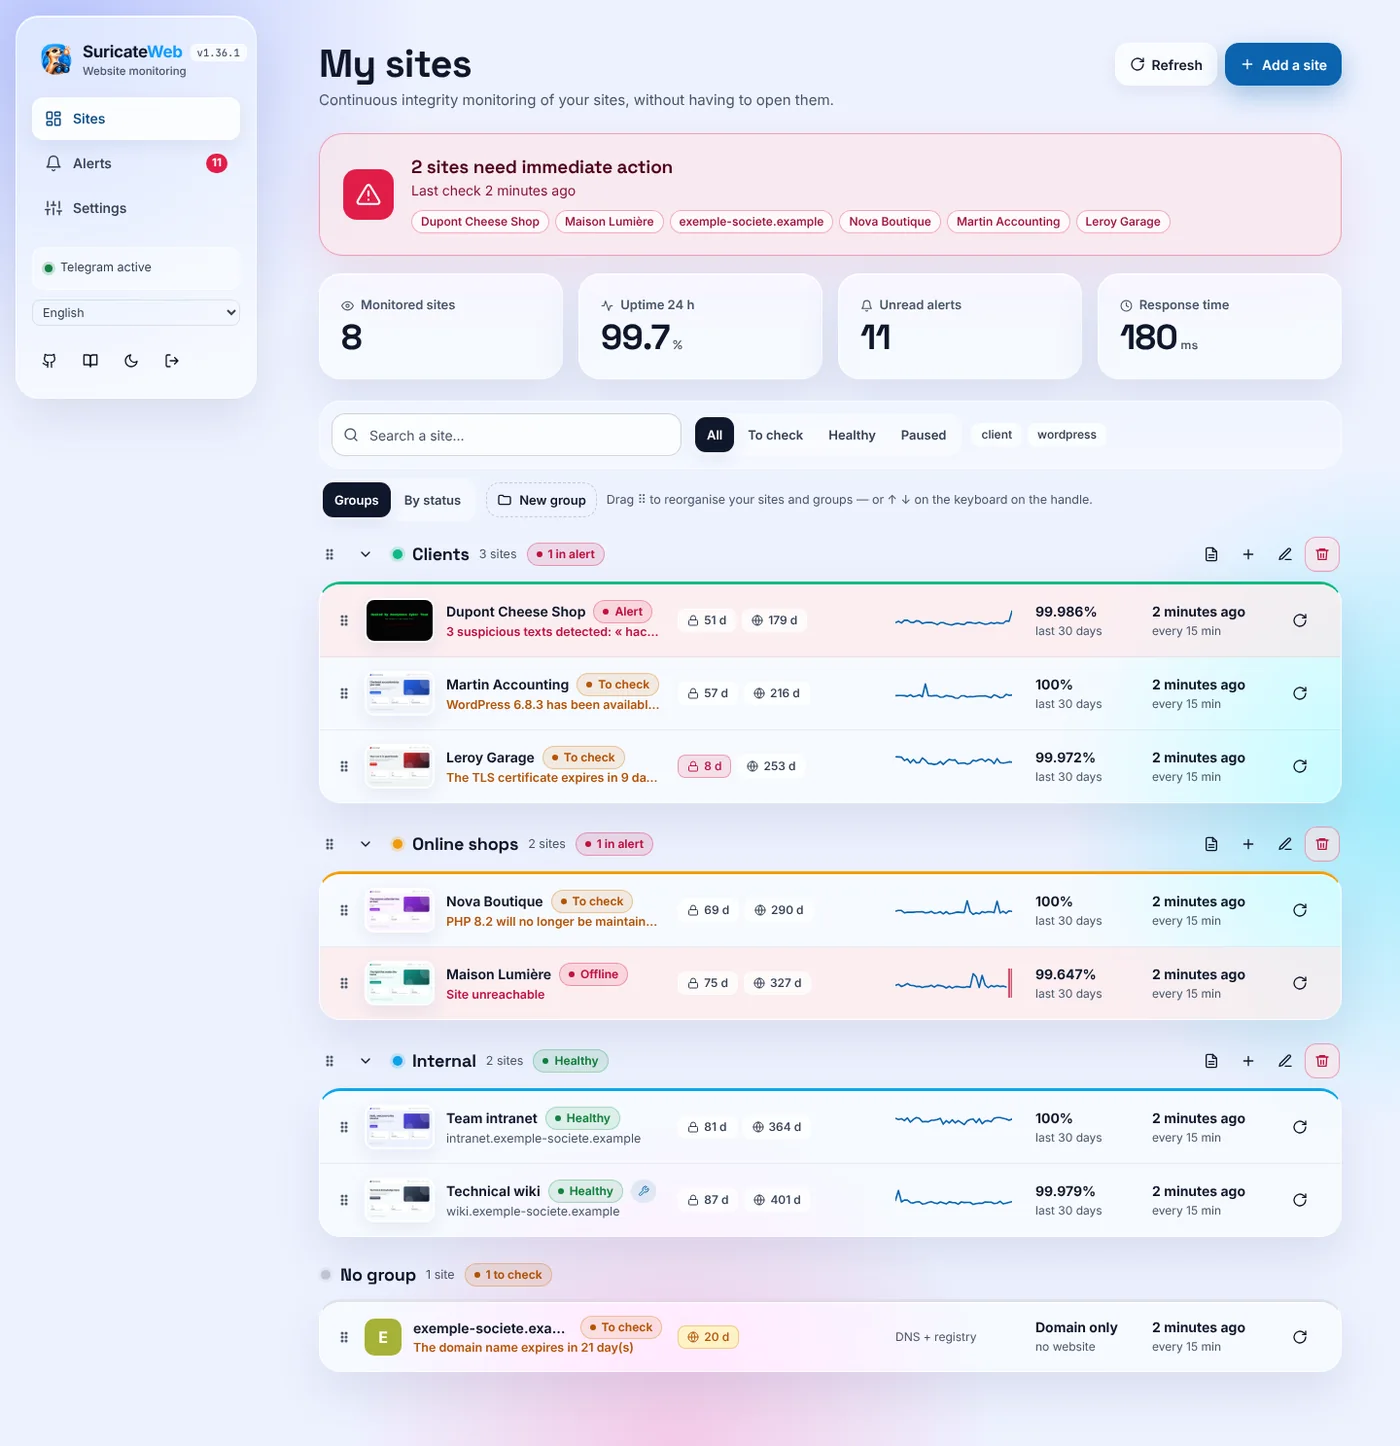
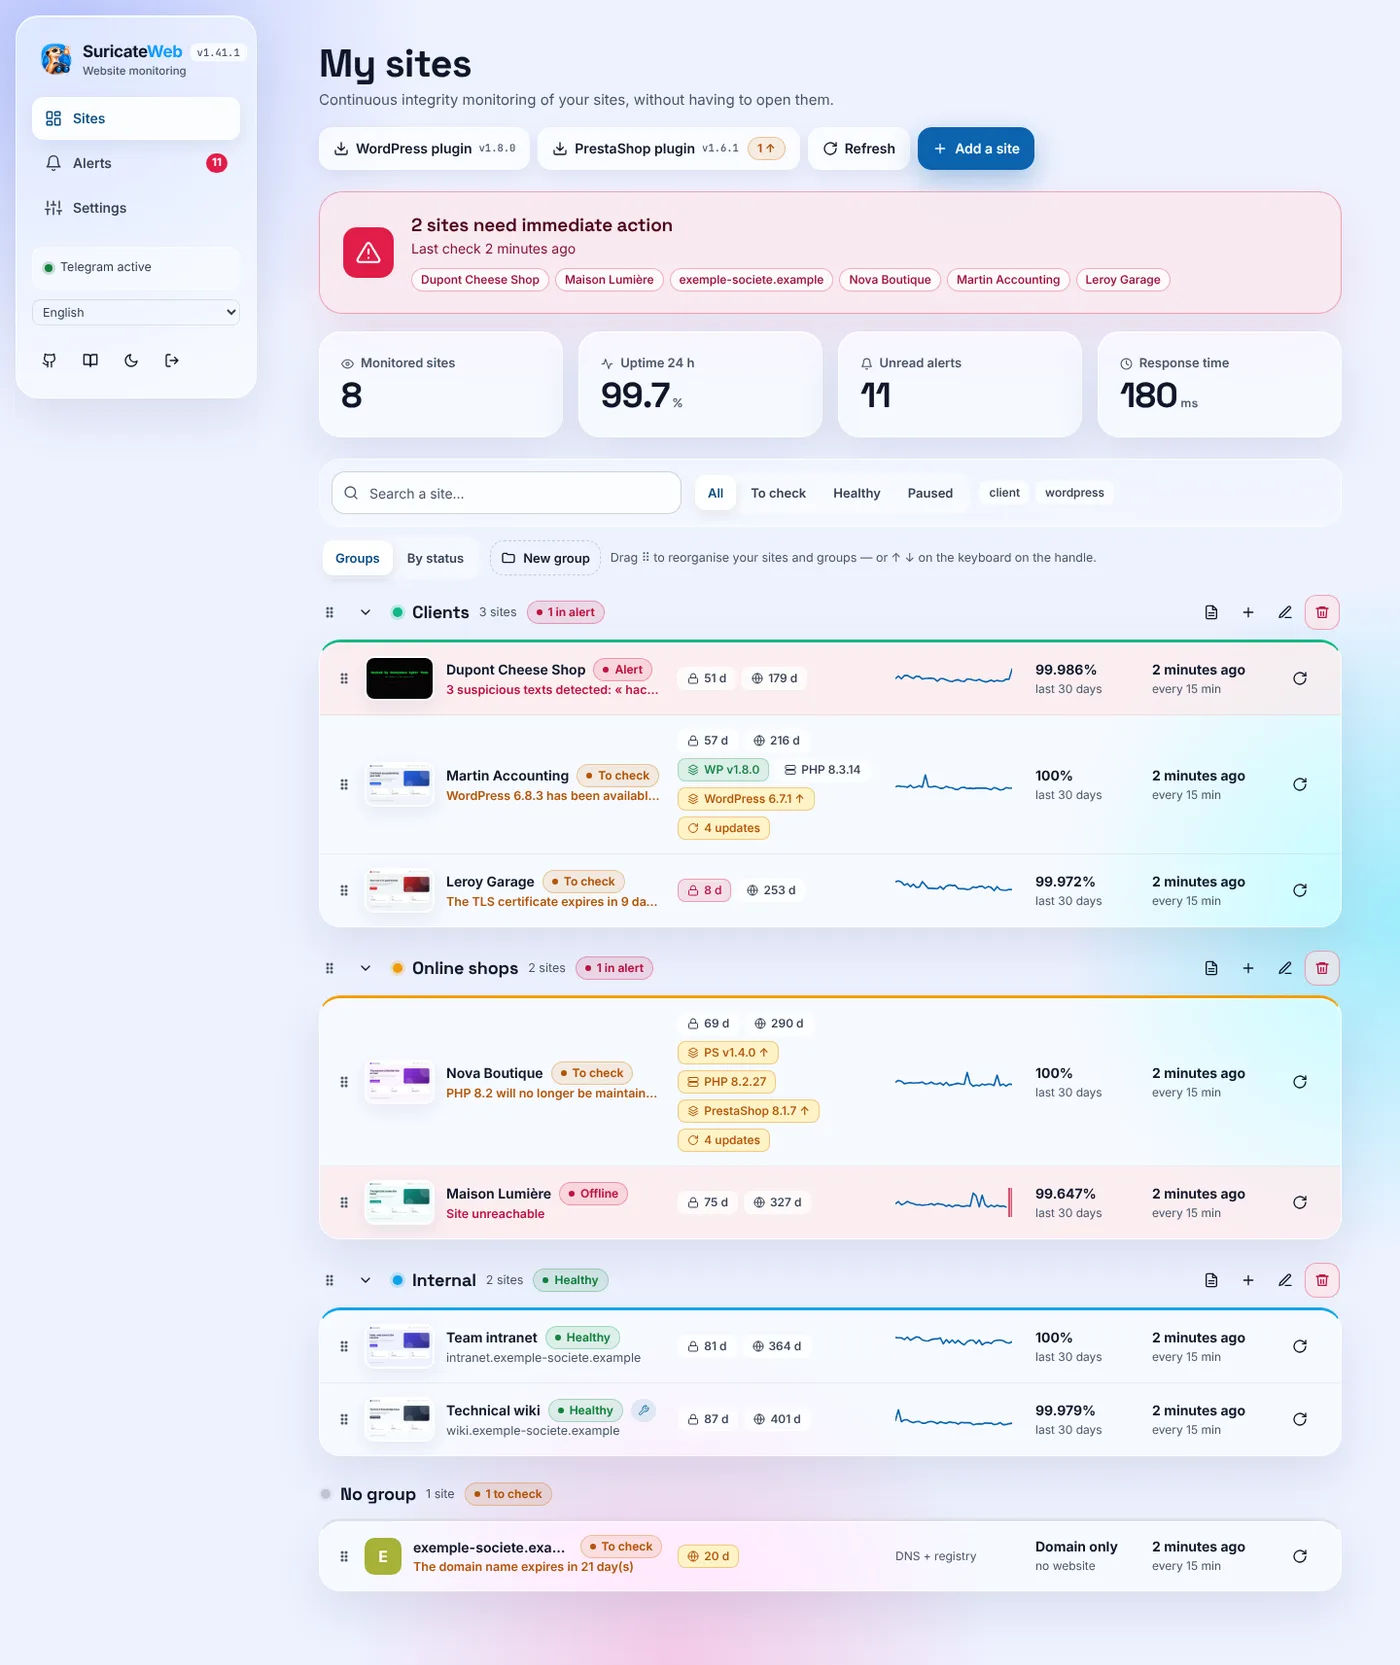
Documentation : liste des sites (versions PHP et CMS, mises à jour en attente, téléchargement des plugins), durcissement en rafale, TRUST_PROXY, capture du tableau de bord (0.2.0)
Claude-Session: https://claude.ai/code/session_01JAuNUVuXj7scNMAsA2dND8

diff --git a/src/content/docs/cms/install.md b/src/content/docs/cms/install.md
@@ -10,7 +10,7 @@ Un petit plugin, installé sur votre site, permet à SuricateWeb de lire ce qu'u
 ## Installation
 
 1. Dans SuricateWeb, ouvrez la fiche du site (**Modifier**), section **WordPress / PrestaShop** : choisissez le CMS. Un **jeton** est généré.
-2. Téléchargez le plugin depuis cette même section (WordPress : une archive `.zip` ; PrestaShop : un module `.zip`).
+2. Téléchargez le plugin depuis cette même section (WordPress : une archive `.zip` ; PrestaShop : un module `.zip`). Les boutons **Plugin WordPress** et **Plugin PrestaShop**, en haut de la liste des sites, le proposent aussi, avec la **version** livrée.
 3. Installez-le comme n'importe quelle extension, puis **activez-le**.
 4. Collez le jeton dans les réglages du plugin :
    - **WordPress** : *Outils › SuricateWeb › Réglages*
@@ -24,6 +24,24 @@ SuricateWeb relève le plugin **toutes les 12 heures** par défaut (réglable de
 ## Mises à jour surveillées
 
 L'onglet **Mises à jour** montre le noyau, les extensions (ou modules) et les thèmes, avec la **version installée** et la **version disponible**. Une alerte part quand une mise à jour tarde : **7 jours** par défaut (réglable), **critique** pour le noyau au bout de 30 jours. La **fin de support de PHP** est aussi signalée.
+
+## Dans la liste des sites
+
+Pour chaque site relié au plugin, la liste affiche ce que le dernier relevé a lu, sans ouvrir la fiche :
+
+| Pastille | Ce qu'elle dit |
+|---|---|
+| **WP v1.8.0** / **PS v1.6.1** | la version du **plugin** installé sur le site. **Verte** : à jour. **Orange** avec ↑ : une version plus récente est livrée. **Rouge** « non joint » : le dernier relevé a échoué. **Grise** « en attente » : aucun relevé pour le moment |
+| **PHP 8.3.14** | la version de PHP du site. **Orange** quand la fin du support de sécurité de cette branche approche (moins de 90 jours), **rouge** quand elle est terminée |
+| **WordPress 6.7.1** / **PrestaShop 8.1.7** | la version du CMS, **orange** avec ↑ quand une version plus récente existe |
+| **4 mises à jour** | le nombre de mises à jour en attente : le CMS, plus chaque extension (ou module) et chaque thème qui en annonce une. C'est le même compte que dans le rapport mensuel. Le détail apparaît au survol, la liste complète dans l'onglet **Mises à jour** |
+
+- Rien ne s'affiche pour un site sans CMS, en mode « domaine seul », ou tant qu'aucun relevé n'a réussi. Si un relevé échoue ensuite, la **dernière valeur connue** reste affichée, et la pastille du plugin passe au rouge.
+- Sur un écran étroit, cette colonne est masquée : il reste une icône du lien avec le CMS.
+
+### Télécharger ou mettre à jour le plugin
+
+En haut de la liste, **Plugin WordPress** et **Plugin PrestaShop** téléchargent l'archive actuelle, avec sa version. Un repère orange, par exemple **1 ↑**, indique **combien de sites** ont un plugin plus ancien : c'est le moment de remplacer le plugin sur ces sites. Les boutons n'apparaissent que si votre accès permet de télécharger les plugins : un invité en lecture seule ne les voit pas.
 
 ## Ce qui circule
 

diff --git a/src/content/docs/en/cms/install.md b/src/content/docs/en/cms/install.md
@@ -10,7 +10,7 @@ A small plugin, installed on your site, lets SuricateWeb read what an outside ch
 ## Installation
 
 1. In SuricateWeb, open the site (**Edit**), **WordPress / PrestaShop** section: choose the CMS. A **token** is generated.
-2. Download the plugin from the same section (WordPress: a `.zip` archive; PrestaShop: a module `.zip`).
+2. Download the plugin from the same section (WordPress: a `.zip` archive; PrestaShop: a module `.zip`). The **WordPress plugin** and **PrestaShop plugin** buttons at the top of the sites list offer it too, with the shipped **version**.
 3. Install it like any extension, then **activate** it.
 4. Paste the token into the plugin's settings:
    - **WordPress**: *Tools › SuricateWeb › Settings*
@@ -24,6 +24,24 @@ SuricateWeb reads the plugin **every 12 hours** by default (adjustable from 1 ho
 ## Monitored updates
 
 The **Updates** tab shows the core, the plugins (or modules) and the themes, with the **installed version** and the **available version**. An alert goes out when an update is late: **7 days** by default (adjustable), **critical** for the core after 30 days. The **end of PHP support** is also reported.
+
+## In the sites list
+
+For each site linked to the plugin, the list shows what the last reading found, without opening the site:
+
+| Badge | What it says |
+|---|---|
+| **WP v1.8.0** / **PS v1.6.1** | the **plugin** version installed on the site. **Green**: up to date. **Orange** with ↑: a newer version is shipped. **Red** “unreachable”: the last reading failed. **Grey** “pending”: no reading yet |
+| **PHP 8.3.14** | the site's PHP version. **Orange** when security support for that branch is about to end (within 90 days), **red** once it has ended |
+| **WordPress 6.7.1** / **PrestaShop 8.1.7** | the CMS version, **orange** with ↑ when a newer version exists |
+| **4 updates** | the number of pending updates: the CMS, plus each plugin (or module) and each theme that announces one. It is the same count as in the monthly report. The detail shows on hover, the full list in the **Updates** tab |
+
+- Nothing is shown for a site without a CMS, in “domain only” mode, or until a reading has succeeded. If a later reading fails, the **last known value** stays displayed, and the plugin badge turns red.
+- On a narrow screen this column is hidden: an icon for the CMS link remains.
+
+### Download or update the plugin
+
+At the top of the list, **WordPress plugin** and **PrestaShop plugin** download the current archive, with its version. An orange marker, for example **1 ↑**, shows **how many sites** have an older plugin: time to replace the plugin on those sites. The buttons only appear if your access allows downloading plugins: a read-only guest does not see them.
 
 ## What travels
 

diff --git a/src/content/docs/cms/health-and-hardening.md b/src/content/docs/cms/health-and-hardening.md
@@ -27,7 +27,7 @@ Le suivi se coupe site par site (*Modifier › WordPress / PrestaShop › Suivre
 
 ## Durcissement en un clic
 
-*WordPress, plugin 1.6 ou plus.* Dans l'onglet **Santé**, la carte **Durcissement** applique quelques réglages de sécurité, **un par un** ou d'un clic (**Appliquer les réglages sûrs**). SuricateWeb envoie l'ordre au plugin, puis relit l'état réel du site : l'interface n'affiche jamais ce qu'on espérait, seulement ce que le site confirme.
+*WordPress, plugin 1.6 ou plus.* Dans l'onglet **Santé**, la carte **Durcissement** applique quelques réglages de sécurité, **un par un** ou d'un clic (**Appliquer les réglages sûrs**). SuricateWeb envoie l'ordre au plugin, puis relit l'**état de santé** du site : l'interface n'affiche jamais ce qu'on espérait, seulement ce que le site confirme.
 
 | Mesure | Effet | Réglage sûr |
 |---|---|---|
@@ -41,3 +41,5 @@ Le suivi se coupe site par site (*Modifier › WordPress / PrestaShop › Suivre
 - Une mesure **déjà active sur le site** est signalée « Déjà actif sur le site » et reste intacte.
 - Aucune mesure ne bloque un administrateur connecté.
 - Appliquer un durcissement demande le droit d'**écrire sur le site** : un invité en lecture seule ne peut pas le faire.
+- Vous pouvez **activer plusieurs mesures à la suite** : la carte est bloquée le temps de l'envoi, et les ordres d'un même site partent l'un après l'autre. Seule la santé est relue (pas un relevé complet), et si un relevé complet est en cours, la relecture attend sa fin.
+- Si le plugin a accepté l'ordre mais que la relecture échoue, l'interface le dit à part : **« Appliqué, mais l'état du site n'a pas pu être relu »**. La mesure est bien appliquée ; **Actualiser** relit l'état.

diff --git a/src/content/docs/en/cms/health-and-hardening.md b/src/content/docs/en/cms/health-and-hardening.md
@@ -27,7 +27,7 @@ Monitoring can be turned off per site (*Edit › WordPress / PrestaShop › Moni
 
 ## One-click hardening
 
-*WordPress, plugin 1.6 or later.* In the **Health** tab, the **Hardening** card applies a few security settings, **one by one** or in one click (**Apply safe settings**). SuricateWeb sends the order to the plugin, then reads back the site's real state: the interface never shows what was hoped for, only what the site confirms.
+*WordPress, plugin 1.6 or later.* In the **Health** tab, the **Hardening** card applies a few security settings, **one by one** or in one click (**Apply safe settings**). SuricateWeb sends the order to the plugin, then reads back the site's **health state**: the interface never shows what was hoped for, only what the site confirms.
 
 | Measure | Effect | Safe setting |
 |---|---|---|
@@ -41,3 +41,5 @@ Monitoring can be turned off per site (*Edit › WordPress / PrestaShop › Moni
 - A measure **already active on the site** is shown as “Already on in the site” and left untouched.
 - No measure blocks a logged-in administrator.
 - Applying hardening requires the right to **write to the site**: a read-only guest cannot do it.
+- You can **turn on several measures in a row**: the card is locked while an order is being sent, and the orders for one site go out one after the other. Only the health is read back (not a full reading), and if a full reading is in progress, the read-back waits for it to finish.
+- If the plugin accepted the order but the read-back fails, the interface says so separately: **“Applied, but the site state could not be read back”**. The measure is applied; **Refresh** reads the state again.

diff --git a/src/content/docs/self-hosting.md b/src/content/docs/self-hosting.md
@@ -31,7 +31,7 @@ L'image contient Chromium pour les captures. Le volume `/data` contient **tout**
 ## Sur Dokploy
 
 1. **Créer l'application** : *Create Application*, source Git, *Build Type* **Dockerfile**.
-2. **Variables d'environnement** : `SURICATE_USER`, `SURICATE_PASSWORD` (obligatoire, 8 caractères au moins), `TRUST_PROXY=1` (déjà dans l'image).
+2. **Variables d'environnement** : `SURICATE_USER`, `SURICATE_PASSWORD` (obligatoire, 8 caractères au moins), `TRUST_PROXY=1` (déjà dans l'image ; `2` si un CDN précède votre reverse proxy).
 3. **Volume persistant** (*Advanced › Volumes*) : type **Volume**, chemin de montage `/data`.
 4. **Domaine** : votre domaine, **port `3000`**, HTTPS activé (Let's Encrypt).
 5. **Déployer.**
@@ -45,7 +45,7 @@ L'image contient Chromium pour les captures. Le volume `/data` contient **tout**
 | `PORT` | `3000` | Port d'écoute |
 | `HOST` | `127.0.0.1` | Interface d'écoute (`0.0.0.0` pour exposer sur le réseau) |
 | `DATA_DIR` | `./data` | Base SQLite et captures d'écran |
-| `TRUST_PROXY` | — | `1` derrière un reverse proxy (cookie `Secure`, IP client) |
+| `TRUST_PROXY` | — | nombre de reverse proxys de confiance : `1` derrière Traefik ou nginx, `2` si un CDN les précède (cookie `Secure`, IP client lue en partant de la fin de `X-Forwarded-For`) |
 | `CHROME_PATH` | détecté | Chrome ou Chromium pour les captures |
 | `CHROME_WS_URL` | — | Chrome **distant** (conteneur Browserless, par exemple) |
 | `SCREENSHOT_KEEP_DEFAULT` | `168` | Captures planifiées conservées par site |

diff --git a/src/content/docs/en/self-hosting.md b/src/content/docs/en/self-hosting.md
@@ -31,7 +31,7 @@ The image includes Chromium for screenshots. The `/data` volume holds **everythi
 ## On Dokploy
 
 1. **Create the application**: *Create Application*, Git source, *Build Type* **Dockerfile**.
-2. **Environment variables**: `SURICATE_USER`, `SURICATE_PASSWORD` (required, at least 8 characters), `TRUST_PROXY=1` (already in the image).
+2. **Environment variables**: `SURICATE_USER`, `SURICATE_PASSWORD` (required, at least 8 characters), `TRUST_PROXY=1` (already in the image; `2` if a CDN sits in front of your reverse proxy).
 3. **Persistent volume** (*Advanced › Volumes*): type **Volume**, mount path `/data`.
 4. **Domain**: your domain, **port `3000`**, HTTPS on (Let's Encrypt).
 5. **Deploy.**
@@ -45,7 +45,7 @@ The image includes Chromium for screenshots. The `/data` volume holds **everythi
 | `PORT` | `3000` | Listening port |
 | `HOST` | `127.0.0.1` | Listening interface (`0.0.0.0` to expose on the network) |
 | `DATA_DIR` | `./data` | SQLite database and screenshots |
-| `TRUST_PROXY` | — | `1` behind a reverse proxy (`Secure` cookie, client IP) |
+| `TRUST_PROXY` | — | number of trusted reverse proxies: `1` behind Traefik or nginx, `2` if a CDN sits in front of them (`Secure` cookie, client IP read from the end of `X-Forwarded-For`) |
 | `CHROME_PATH` | detected | Chrome or Chromium for screenshots |
 | `CHROME_WS_URL` | — | **Remote** Chrome (a Browserless container, for example) |
 | `SCREENSHOT_KEEP_DEFAULT` | `168` | Scheduled screenshots kept per site |
